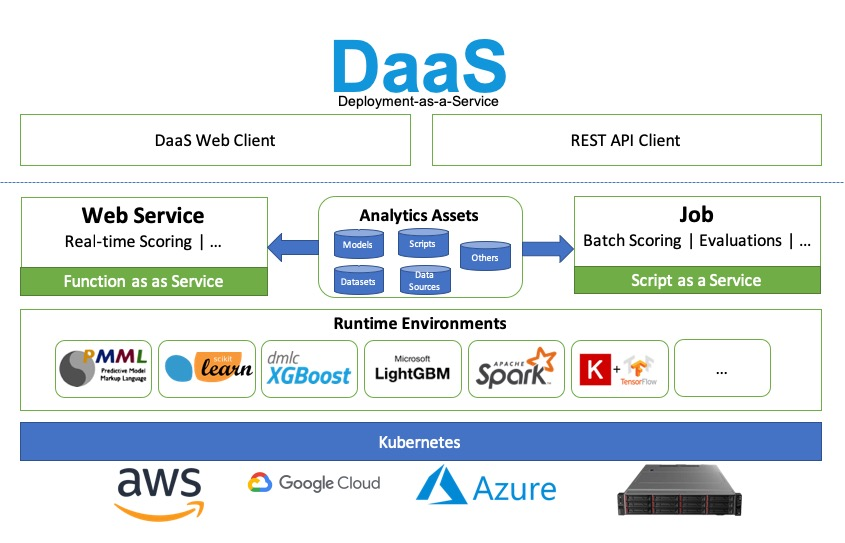
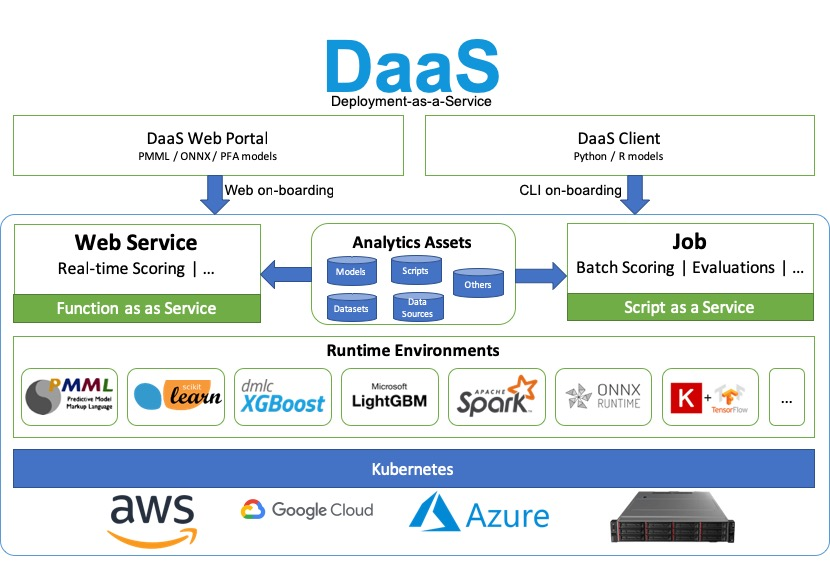
update docs

Changed region(s): [[0.0, 0.0589, 1.0, 1.0]]

diff --git a/deploy-pmml-in-daas/README.md b/deploy-pmml-in-daas/README.md
@@ -12,13 +12,13 @@
 * [参考](#参考)
 
 ## DaaS介绍
-DaaS（Deployment-as-a-Service）是AutoDeployAI公司推出的AI模型自动部署系统，支持PMML，Scikit-learn，XGBoost，LightGBM，Spark以及主流深度学习Keras，TensorFlow，Pytorch，MxNet等多种模型的部署。
+DaaS（Deployment-as-a-Service）是AutoDeployAI公司推出的AI模型自动部署系统，支持PMML，Scikit-learn，XGBoost，LightGBM，Spark以及主流深度学习ONNX，Keras，TensorFlow，Pytorch，MxNet等多种模型的部署。
 
 DaaS基于Kubernetes构建，提供可靠和可扩展的模型部署服务，弹性部署用户AI和ML解决方案到生产环境中。用户可以自由选择在公有云或私有云的Kubernetes上安装DaaS系统，以满足用户对AI部署的多样需求。本文中的DaaS演示系统部署在本地的Minikube上。
 
 DaaS设计框架：
 
-![DaaS-Design](https://raw.githubusercontent.com/aipredict/ai-deployment/master/deploy-pmml-in-daas/daas-design.jpg)
+![DaaS-design](https://raw.githubusercontent.com/aipredict/ai-deployment/master/deploy-pmml-in-daas/daas-design.jpg)
 
 ## PMML简介
 PMML是一套与平台和环境无关的AI模型序列化标准，为模型的跨平台部署提供了基础，简化了部署流程，可实现模型的快速上线。关于PMML的详细信息，可以参考文章[《使用PMML部署机器学习模型》](https://github.com/aipredict/ai-deployment/blob/master/deploy-ml-using-pmml/README.md)。
